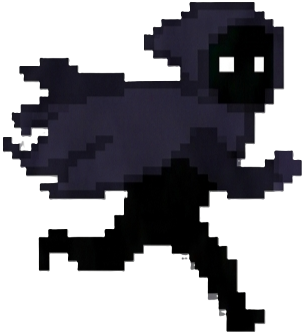
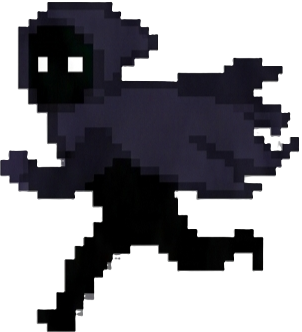
implementation des animations au game.py

diff --git a/game.py b/game.py
@@ -29,6 +29,8 @@ def game():
     player_start_x = start_data[0] * cell_size + cell_size // 2
     player_start_y = start_data[1] * cell_size + cell_size // 2
     player = Player(player_start_x, player_start_y, player_size)
+    attaque = 0
+    is_attacking = False
 
     # --- Monstre ---
     monster_size = 100
@@ -46,6 +48,7 @@ def game():
     # --- Boucle principale ---
     clock = pygame.time.Clock()
     while True:
+        delta_ms = clock.tick(60)
         for event in pygame.event.get():
             if event.type == pygame.QUIT:
                 pygame.quit()
@@ -54,53 +57,66 @@ def game():
             if event.type == pygame.KEYDOWN:
                 if event.key == pygame.K_SPACE:
                     player.create_attack_hitbox(width=60, height=40)
+                    is_attacking = True
+
 
         # Contrôles joueur
         keys = pygame.key.get_pressed()
         dx = dy = 0
         speedcross = int(player.speed * 0.7071)  # speed / sqrt(2)
         
-        if (keys[pygame.K_z] or keys[pygame.K_UP]) and not (keys[pygame.K_q] or keys[pygame.K_LEFT]) and not (keys[pygame.K_d] or keys[pygame.K_RIGHT]):
+        if not is_attacking and (keys[pygame.K_z] or keys[pygame.K_UP]) and not (keys[pygame.K_q] or keys[pygame.K_LEFT]) and not (keys[pygame.K_d] or keys[pygame.K_RIGHT]):
             dy -= player.speed
             player.move(dx, dy, MAP_W, MAP_H, lamap)
-        elif (keys[pygame.K_s] or keys[pygame.K_DOWN]) and not (keys[pygame.K_q] or keys[pygame.K_LEFT]) and not (keys[pygame.K_d] or keys[pygame.K_RIGHT]):
+        elif not is_attacking and (keys[pygame.K_s] or keys[pygame.K_DOWN]) and not (keys[pygame.K_q] or keys[pygame.K_LEFT]) and not (keys[pygame.K_d] or keys[pygame.K_RIGHT]):
             dy += player.speed
             player.move(dx, dy, MAP_W, MAP_H, lamap)
-        elif (keys[pygame.K_q] or keys[pygame.K_LEFT]) and not (keys[pygame.K_z] or keys[pygame.K_UP]) and not (keys[pygame.K_s] or keys[pygame.K_DOWN]):
+        elif not is_attacking and (keys[pygame.K_q] or keys[pygame.K_LEFT]) and not (keys[pygame.K_z] or keys[pygame.K_UP]) and not (keys[pygame.K_s] or keys[pygame.K_DOWN]):
             dx -= player.speed
             player.move(dx, dy, MAP_W, MAP_H, lamap)
-        elif (keys[pygame.K_d] or keys[pygame.K_RIGHT]) and not (keys[pygame.K_z] or keys[pygame.K_UP]) and not (keys[pygame.K_s] or keys[pygame.K_DOWN]):
+        elif not is_attacking and (keys[pygame.K_d] or keys[pygame.K_RIGHT]) and not (keys[pygame.K_z] or keys[pygame.K_UP]) and not (keys[pygame.K_s] or keys[pygame.K_DOWN]):
             dx += player.speed
             player.move(dx, dy, MAP_W, MAP_H, lamap)
         #les deplacements en croisee
-        elif (keys[pygame.K_z] or keys[pygame.K_UP]) and (keys[pygame.K_q] or keys[pygame.K_LEFT]):
+        elif not is_attacking and (keys[pygame.K_z] or keys[pygame.K_UP]) and (keys[pygame.K_q] or keys[pygame.K_LEFT]):
             if player.is_position_walkable(player.rect.move(dx - player.speed, 0), lamap):    
                 dx -= speedcross
                 player.move(dx, dy, MAP_W, MAP_H, lamap)
             if player.is_position_walkable(player.rect.move(0, dy - player.speed), lamap):
                 dy -= speedcross
                 player.move(dx, dy, MAP_W, MAP_H, lamap)
-        elif (keys[pygame.K_z] or keys[pygame.K_UP]) and (keys[pygame.K_d] or keys[pygame.K_RIGHT]):
+        elif not is_attacking and (keys[pygame.K_z] or keys[pygame.K_UP]) and (keys[pygame.K_d] or keys[pygame.K_RIGHT]):
             if player.is_position_walkable(player.rect.move(dx + player.speed, 0), lamap):
                 dx += speedcross
                 player.move(dx, dy, MAP_W, MAP_H, lamap)
             if player.is_position_walkable(player.rect.move(0, dy - player.speed), lamap):
                 dy -= speedcross
                 player.move(dx, dy, MAP_W, MAP_H, lamap)
-        elif (keys[pygame.K_s] or keys[pygame.K_DOWN]) and (keys[pygame.K_q] or keys[pygame.K_LEFT]):
+        elif not is_attacking and (keys[pygame.K_s] or keys[pygame.K_DOWN]) and (keys[pygame.K_q] or keys[pygame.K_LEFT]):
             if player.is_position_walkable(player.rect.move(dx - player.speed, 0), lamap):
                 dx -= speedcross
                 player.move(dx, dy, MAP_W, MAP_H, lamap)
             if player.is_position_walkable(player.rect.move(0, dy + player.speed), lamap):
                 dy += speedcross
                 player.move(dx, dy, MAP_W, MAP_H, lamap)
-        elif (keys[pygame.K_s] or keys[pygame.K_DOWN]) and (keys[pygame.K_d] or keys[pygame.K_RIGHT]):
+        elif not is_attacking and (keys[pygame.K_s] or keys[pygame.K_DOWN]) and (keys[pygame.K_d] or keys[pygame.K_RIGHT]):
             if player.is_position_walkable(player.rect.move(dx + player.speed, 0), lamap):
                 dx += speedcross
                 player.move(dx, dy, MAP_W, MAP_H, lamap)
             if player.is_position_walkable(player.rect.move(0, dy + player.speed), lamap):
                 dy += speedcross
                 player.move(dx, dy, MAP_W, MAP_H, lamap)
+
+        # Animation: décider si le joueur est en mouvement et si il court
+        moving = (
+            keys[pygame.K_z] or keys[pygame.K_UP] or
+            keys[pygame.K_s] or keys[pygame.K_DOWN] or
+            keys[pygame.K_q] or keys[pygame.K_LEFT] or
+            keys[pygame.K_d] or keys[pygame.K_RIGHT]
+        )
+        running = keys[pygame.K_LSHIFT] or keys[pygame.K_RSHIFT]
+        player.set_running(running)
+        player.update_animation(delta_ms, moving)
 
         screensize = pygame.display.get_window_size()
         SCREEN_W, SCREEN_H = screensize[0], screensize[1]
@@ -134,11 +150,16 @@ def game():
         player.draw_hitbox(screen, cam_x, cam_y)
         monster.draw_hitbox(screen, cam_x, cam_y)
         player.draw_attack_hitbox(screen, cam_x, cam_y)
+        
+        if is_attacking:
+            attaque += 1
+            if attaque > 15:
+                is_attacking = False
+                attaque = 0
+                player.reset_attack()
 
-        player.reset_attack()
 
         pygame.display.flip()
-        clock.tick(60)
 
 
 if __name__ == "__main__":

diff --git a/player.py b/player.py
@@ -51,6 +51,8 @@ class Player(Entity):
         self.sprite_runU.append(pygame.transform.scale(img, (sprite_size, sprite_size)))
         img = pygame.image.load("assets/player_Urun_2.png").convert_alpha()
         self.sprite_runU.append(pygame.transform.scale(img, (sprite_size, sprite_size)))
+        img = pygame.image.load("assets/player_Urun_3.png").convert_alpha()
+        self.sprite_runU.append(pygame.transform.scale(img, (sprite_size, sprite_size)))
 
         img = pygame.image.load("assets/player_Drun_1.png").convert_alpha()
         self.sprite_runD.append(pygame.transform.scale(img, (sprite_size, sprite_size)))
